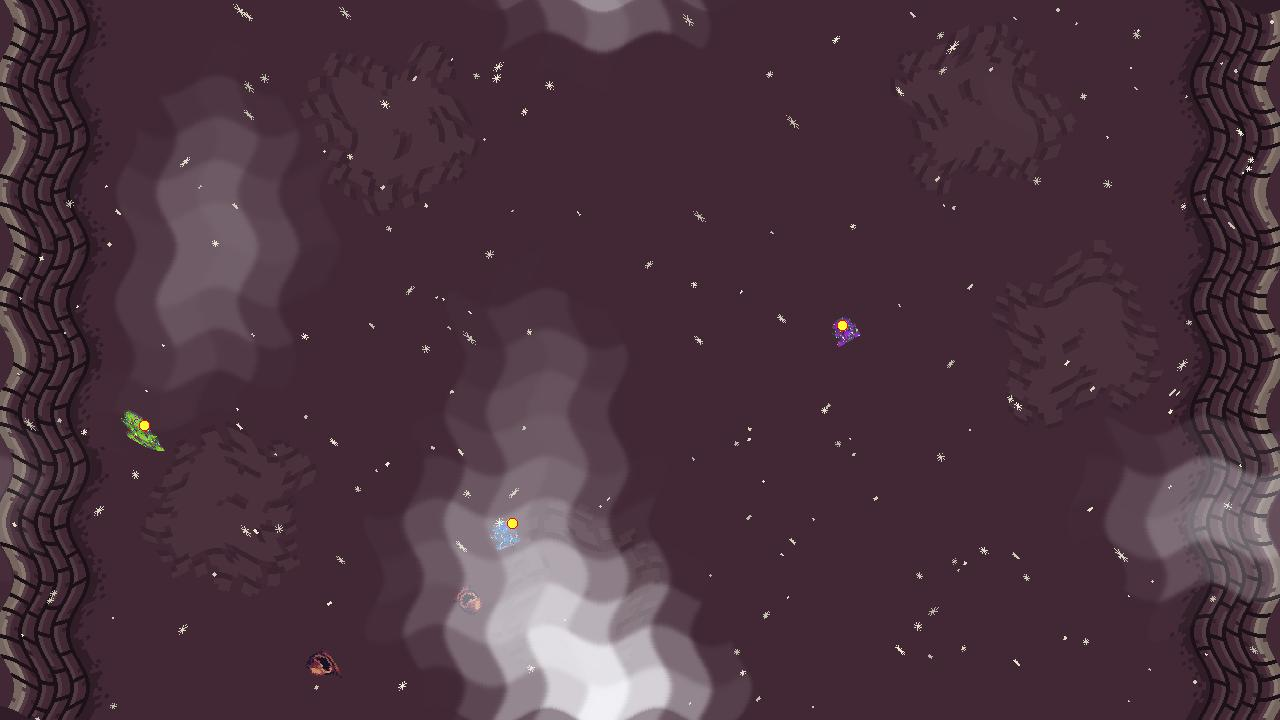
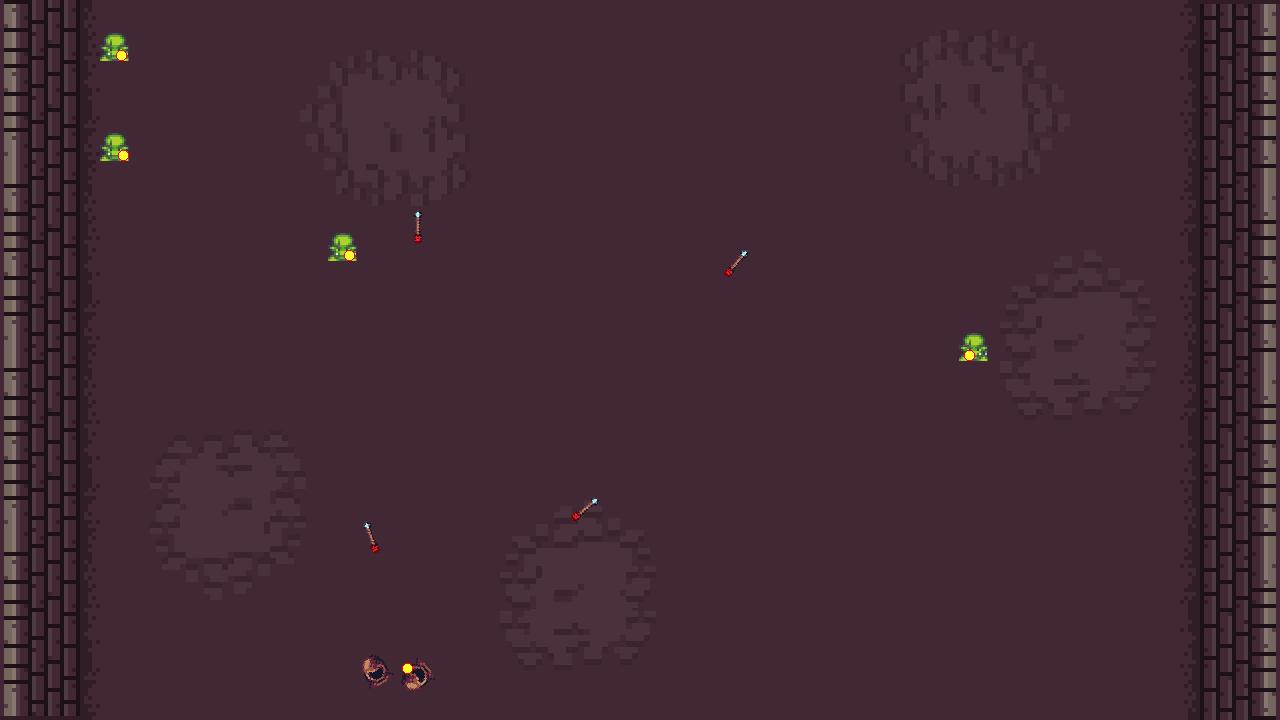
non ml template matching for vision

diff --git a/MatrixGames/plots.py b/MatrixGames/plots.py
@@ -1,7 +1,7 @@
 import numpy as np
 import matplotlib.pyplot as plt
 import game
-
+import math
 
 def create_simple_plot():
     # Creating arrow
@@ -19,16 +19,16 @@ def create_simple_plot():
     plt.show()
 
 def calculate_vector_field_boltzmann(game, P,Q, u1, u2):
-    vector_field_x = np.zeros((11,11))
-    vector_field_y = np.zeros((11,11))
+    vector_field_x = np.zeros((100,100))
+    vector_field_y = np.zeros((100,100))
 
-    for i in range(11):
-        for j in range(11):
+    for i in range(100):
+        for j in range(100):
             strategy1 = np.array([P[i,j], 1-P[i,j]])
             strategy2 = np.array([Q[i,j], 1-Q[i,j]])
 
             player1_expected_reward = u1 @ strategy2
-            player2_expected_reward = u2 @ strategy1
+            player2_expected_reward = u2.T @ strategy1
 
             helper_term = strategy1/strategy1[0]
             helper_term = np.log(helper_term)
@@ -45,7 +45,6 @@ def calculate_vector_field_boltzmann(game, P,Q, u1, u2):
                 *(player2_expected_reward[0]-player2_expected_reward @ strategy2)
                 +game.alpha*strategy2[0]*helper_term @ strategy2
                 )
-            
             vector_field_x[i,j] = derivative_player1
             vector_field_y[i,j] = derivative_player2
     return vector_field_x,vector_field_y
@@ -54,8 +53,8 @@ def calculate_vector_field_boltzmann(game, P,Q, u1, u2):
 
 
 def show_replicator_dynamics_boltzmann(game : game.Game):
-    p = np.arange(0, 1.1, 0.1)
-    q = np.arange(0, 1.1, 0.1)  
+    p = np.linspace(0.01,1,100)
+    q = np.linspace(0.01,1,100)
     P, Q = np.meshgrid(p, q)
 
     utility_mat_1 = game.u_1
@@ -65,12 +64,8 @@ def show_replicator_dynamics_boltzmann(game : game.Game):
     print(Q)
     
     v1, v2 = calculate_vector_field_boltzmann(game,P,Q,utility_mat_1,utility_mat_2)
-    fig, ax = plt.subplots(figsize =(14, 8))
-    ax.quiver(P, Q, v1, v2)
-
-    '''ax.xaxis.set_ticks([])
-    ax.yaxis.set_ticks([])'''
-    #ax.axis([-0.3, 2.3, -0.3, 2.3])
+    fig, ax = plt.subplots()
+    ax.quiver(P[::5,::5], Q[::5,::5], v1[::5,::5], v2[::5,::5],units='xy')
     ax.set_aspect('equal')
 
     # show plot

diff --git a/template_matching.py b/template_matching.py
@@ -1,0 +1,17 @@
+import cv2
+import numpy as np
+
+#https://docs.opencv.org/3.4/d4/dc6/tutorial_py_template_matching.html
+def find_zombies(frame):
+    gray = cv2.cvtColor(frame, cv2.COLOR_BGR2GRAY)
+    template = cv2.imread('template.png', cv2.IMREAD_GRAYSCALE)
+    template = template.squeeze()
+    print(template.shape)
+    w, h = template.shape[::-1]
+    res = cv2.matchTemplate(gray,template,cv2.TM_CCOEFF_NORMED)
+    threshold = 0.4
+    loc = np.where( res >= threshold)
+    colored = frame
+    for pt in zip(*loc[::-1]):
+        cv2.rectangle(colored, pt, (pt[0] + w, pt[1] + h), (0,0,255), 2)
+    cv2.imwrite("output.jpg", colored)

diff --git a/evaluation.py b/evaluation.py
@@ -23,6 +23,7 @@ import pygame
 from PIL import Image
 
 import data_generator as dg
+import template_matching as tm
 
 from utils import create_environment, iou
 
@@ -99,7 +100,9 @@ def evaluate(
             
             #data_generator.generate_one_data_point(env,step_count)
             #dg.draw_zombie_positions(env)
-            dg.draw_detected_zombies(env)
+            #dg.draw_detected_zombies(env)
+
+            tm.find_zombies(obs)
 
             step_count += 1
 

diff --git a/MatrixGames/main.py b/MatrixGames/main.py
@@ -20,10 +20,10 @@ def main():
     stag_hunt.add_player(player1)
     stag_hunt.add_player(player2)'''
 
-    player1 = game.BoltzmannPlayer(stag_hunt,1,10)
+    player1 = game.BoltzmannPlayer(stag_hunt,1,1)
     #player1._q_table = [10,1.9/3]
 
-    player2 = game.BoltzmannPlayer(stag_hunt,2,10)
+    player2 = game.BoltzmannPlayer(stag_hunt,2,1)
     #player2._q_table = [10,1.9/3]
 
     player3 = game.Player(stag_hunt,2)

diff --git a/utils.py b/utils.py
@@ -35,7 +35,7 @@ def create_environment(
     # Set parameters
 
     num_agents = 2
-    visual_observation = False
+    visual_observation = True
 
 
     # Create base environment
